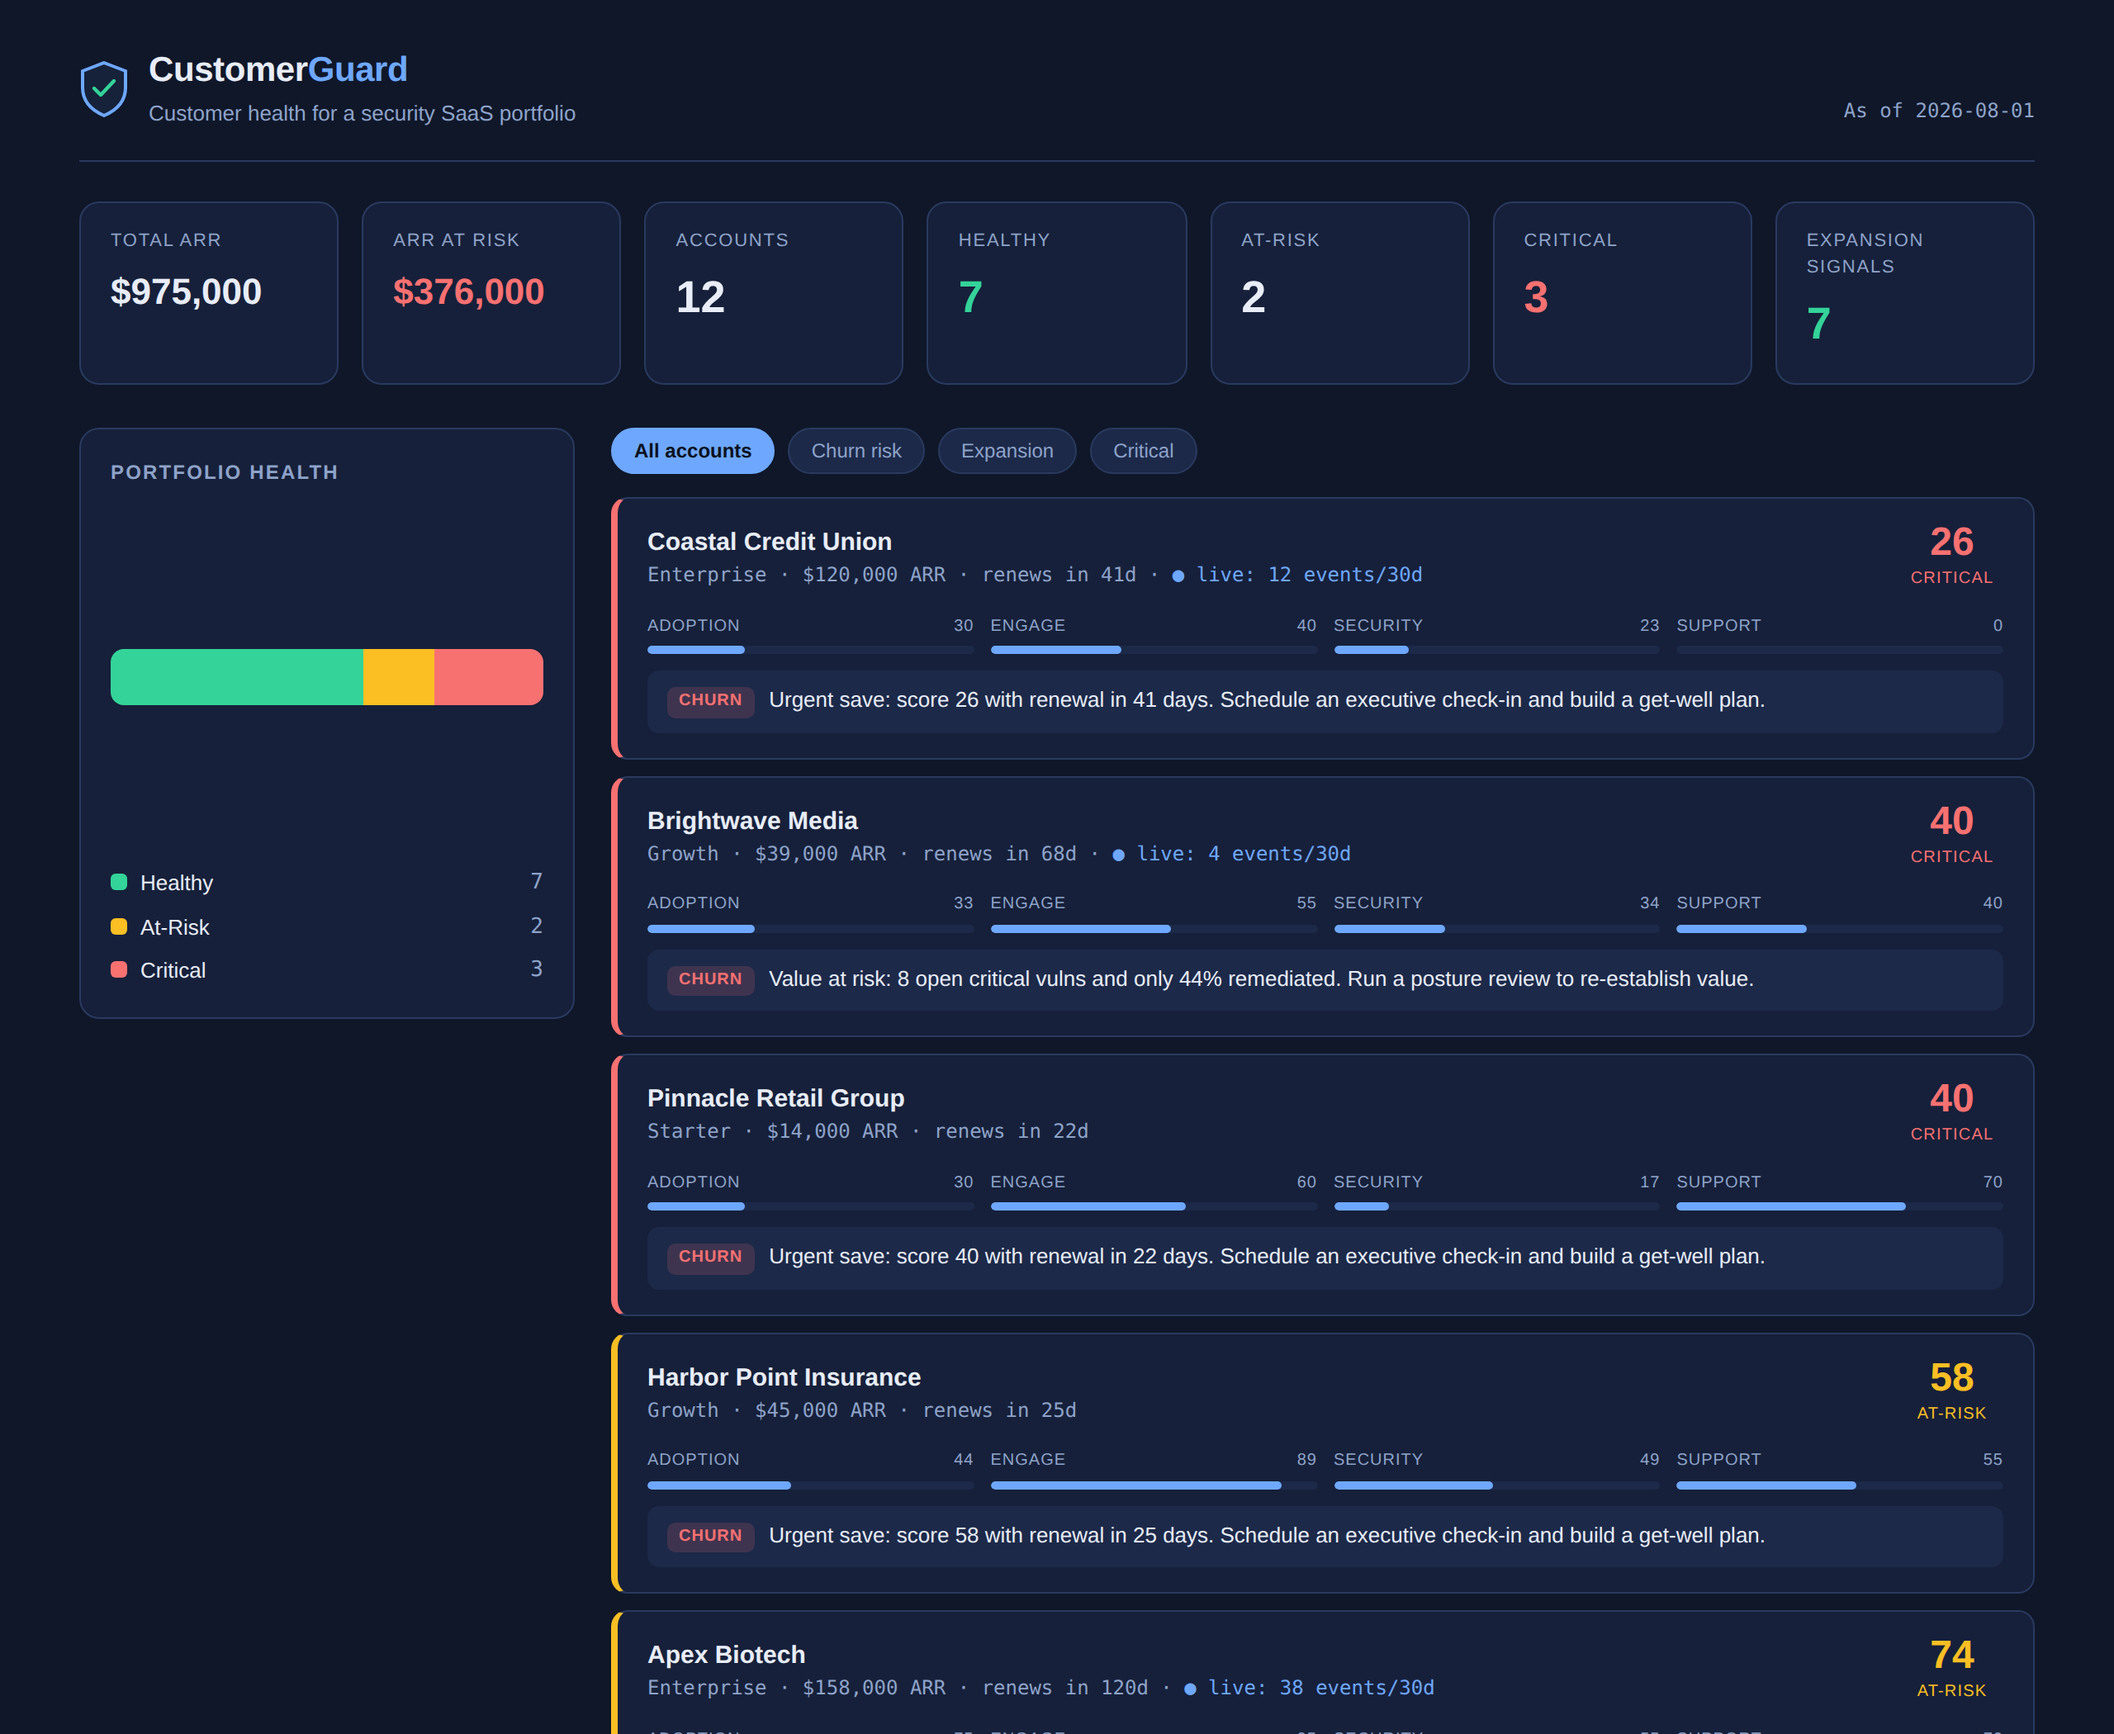
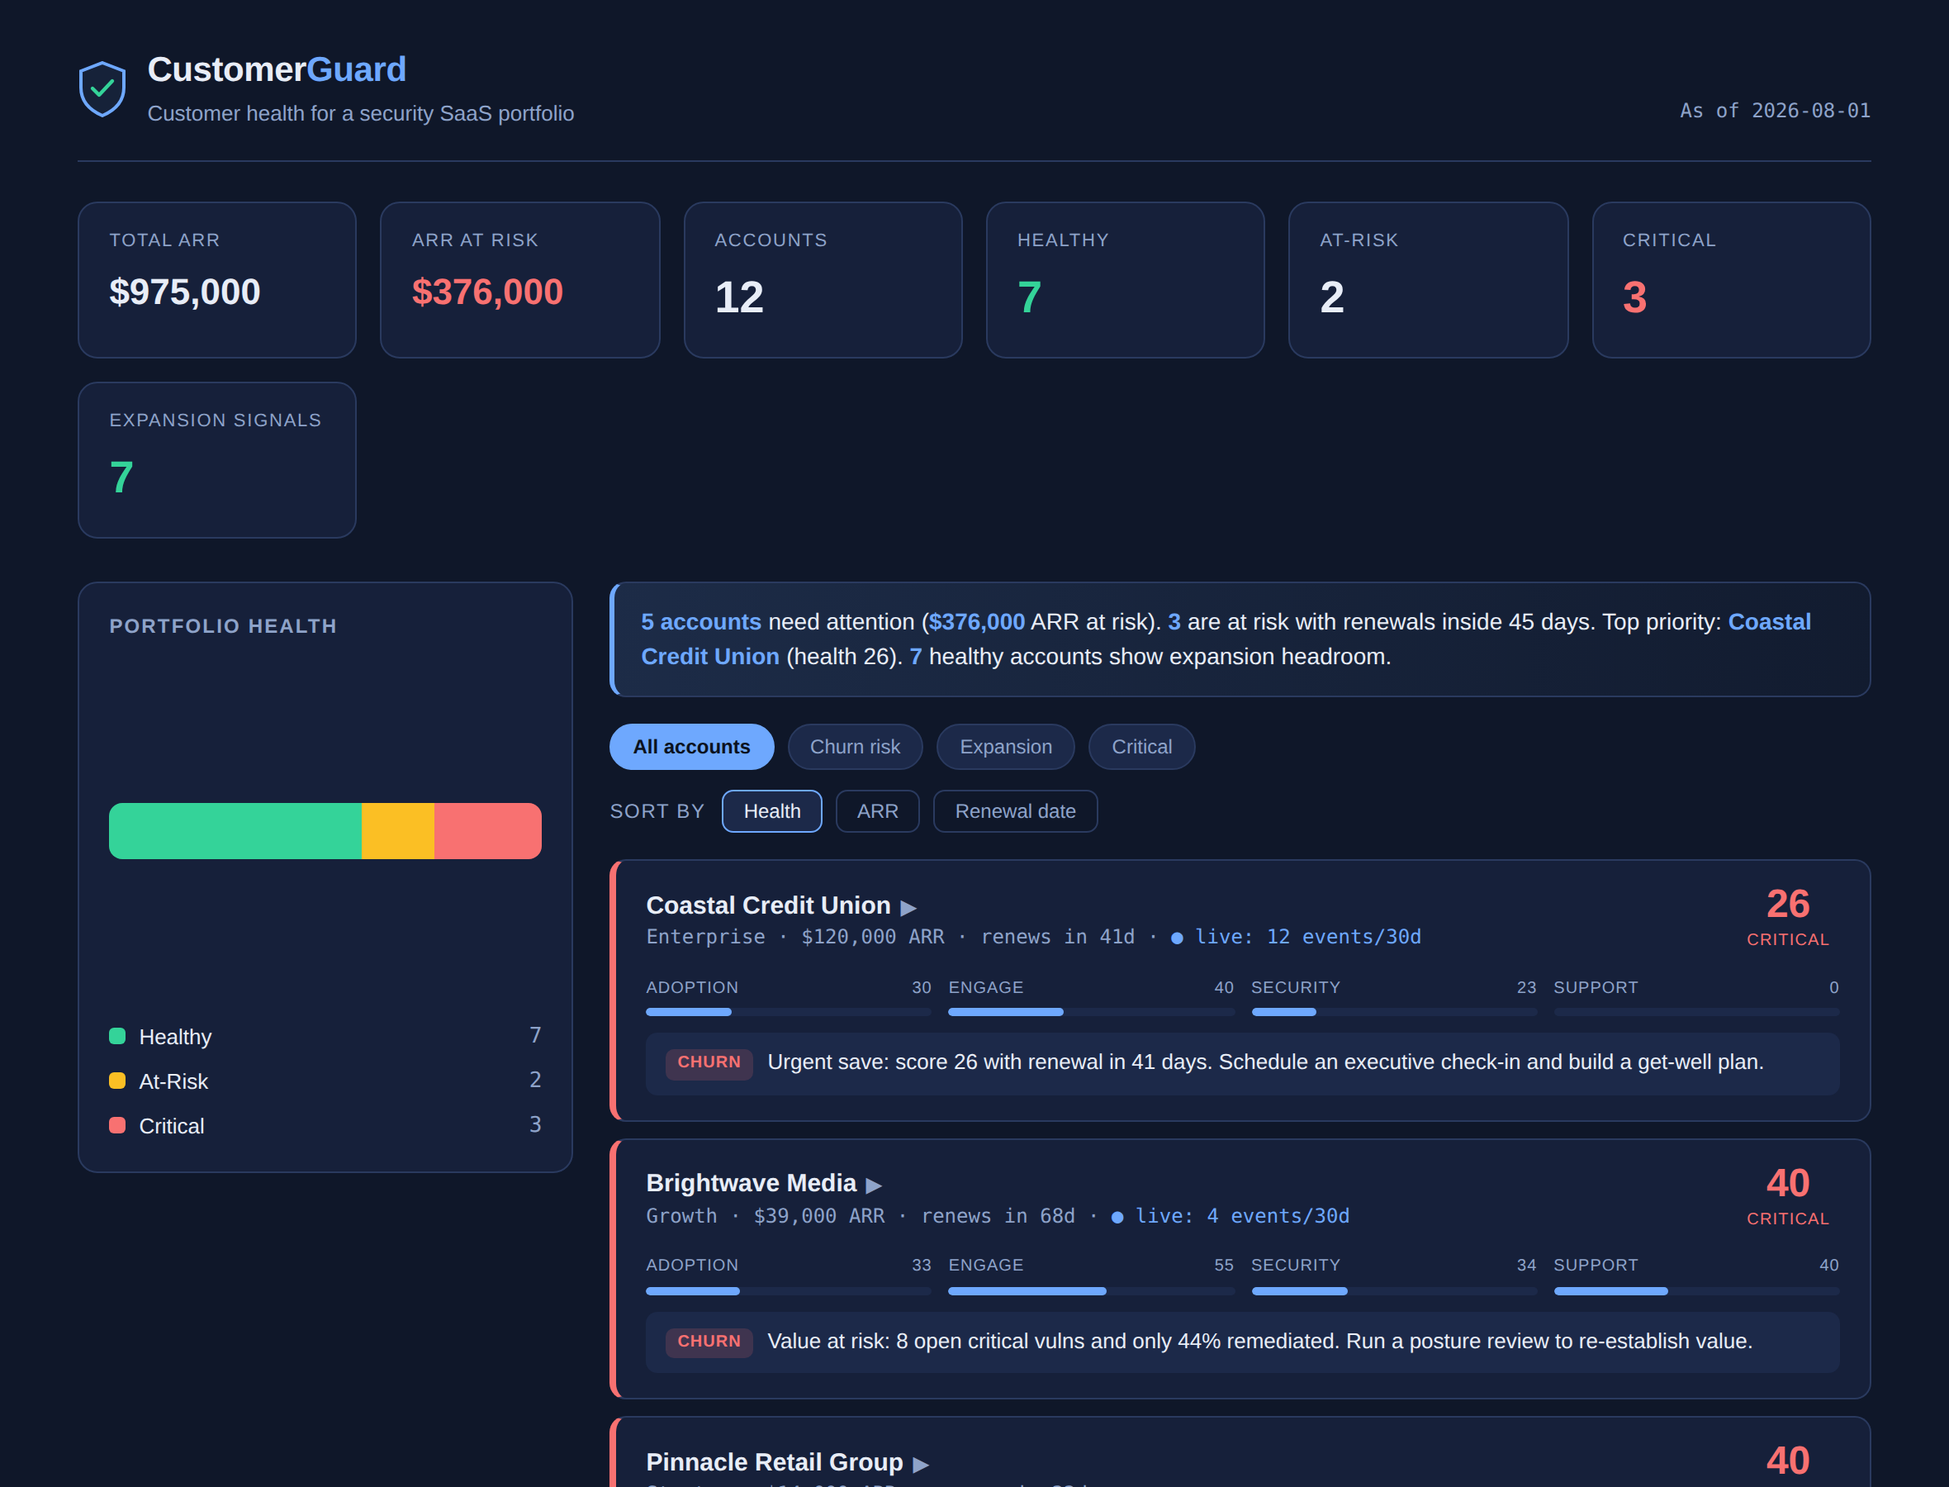
Add interactive detail panels, sorting, and insight strip

diff --git a/dashboard.html b/dashboard.html
@@ -55,7 +55,27 @@
   .legrow .dot { width: 10px; height: 10px; border-radius: 3px; display: inline-block; margin-right: 8px; }
   .legrow .n { font-family: var(--mono); color: var(--muted); }
 
-  .controls { display: flex; gap: 8px; margin-bottom: 14px; flex-wrap: wrap; }
+  .insight { background: linear-gradient(90deg, rgba(110,168,254,.14), rgba(110,168,254,.03)); border: 1px solid var(--line); border-left: 3px solid var(--accent); border-radius: 10px; padding: 13px 16px; margin-bottom: 16px; font-size: 14px; line-height: 1.5; }
+  .insight b { color: var(--accent); font-weight: 650; }
+  .controls { display: flex; gap: 8px; margin-bottom: 12px; flex-wrap: wrap; }
+  .sortbar { display: flex; align-items: center; gap: 8px; margin-bottom: 16px; flex-wrap: wrap; }
+  .sortlabel { font-size: 12px; color: var(--muted); text-transform: uppercase; letter-spacing: 0.07em; margin-right: 2px; }
+  .sortbtn { background: transparent; border: 1px solid var(--line); color: var(--muted); font-size: 12px; padding: 5px 12px; border-radius: 7px; cursor: pointer; font-family: inherit; transition: all .15s; }
+  .sortbtn:hover { color: var(--text); }
+  .sortbtn.active { background: var(--panel-2); border-color: var(--accent); color: var(--text); }
+  .acct { cursor: pointer; }
+  .detail { grid-column: 1 / -1; margin-top: 4px; border-top: 1px dashed var(--line); padding-top: 14px; display: none; }
+  .acct.open .detail { display: block; }
+  .acct .chev { transition: transform .2s; display: inline-block; color: var(--muted); font-size: 12px; margin-left: 6px; }
+  .acct.open .chev { transform: rotate(90deg); }
+  .detail-grid { display: grid; grid-template-columns: repeat(auto-fit, minmax(130px, 1fr)); gap: 10px 16px; }
+  .dstat { background: var(--panel-2); border-radius: 7px; padding: 9px 11px; }
+  .dstat .dl { font-size: 10px; text-transform: uppercase; letter-spacing: 0.05em; color: var(--muted); }
+  .dstat .dv { font-size: 16px; font-weight: 600; margin-top: 3px; font-variant-numeric: tabular-nums; }
+  .dstat .dv.warn { color: var(--critical); }
+  .dstat .dv.good { color: var(--healthy); }
+  .detail-note { margin-top: 12px; font-size: 12px; color: var(--muted); }
+  .detail-note code { font-family: var(--mono); color: var(--accent); }
   .filter { background: var(--panel-2); border: 1px solid var(--line); color: var(--muted); font-size: 12px; padding: 6px 13px; border-radius: 20px; cursor: pointer; font-family: inherit; transition: all .15s; }
   .filter:hover { color: var(--text); }
   .filter.active { background: var(--accent); border-color: var(--accent); color: #0b1220; font-weight: 600; }
@@ -114,11 +134,18 @@
   </div>
 
   <div>
+    <div class="insight" id="insight"></div>
     <div class="controls" id="filters">
       <button class="filter active" data-f="all">All accounts</button>
       <button class="filter" data-f="churn">Churn risk</button>
       <button class="filter" data-f="expansion">Expansion</button>
       <button class="filter" data-f="Critical">Critical</button>
+    </div>
+    <div class="sortbar">
+      <span class="sortlabel">Sort by</span>
+      <button class="sortbtn active" data-s="health">Health</button>
+      <button class="sortbtn" data-s="arr">ARR</button>
+      <button class="sortbtn" data-s="renewal">Renewal date</button>
     </div>
     <div class="accounts" id="accounts"></div>
   </div>
@@ -181,21 +208,71 @@ document.getElementById('legend').innerHTML = [
   ['Healthy', s.healthy, C.Healthy], ['At-Risk', s.at_risk, C['At-Risk']], ['Critical', s.critical, C.Critical]
 ].map(([l, n, c]) => `<div class="legrow"><span><span class="dot" style="background:${c}"></span>${l}</span><span class="n">${n}</span></div>`).join('');
 
-// Accounts
+// ---- Insight strip: an auto-generated takeaway, like a CSM's weekly summary ----
+(function insight() {
+  const at = DATA.accounts.filter(a => a.status !== 'Healthy');
+  const worst = DATA.accounts.reduce((m, a) => a.health_score < m.health_score ? a : m, DATA.accounts[0]);
+  const soon = DATA.accounts.filter(a => a.days_to_renewal <= 45 && a.status !== 'Healthy');
+  const exp = DATA.accounts.filter(a => a.flag === 'expansion');
+  document.getElementById('insight').innerHTML =
+    `<b>${at.length} accounts</b> need attention (<b>$${s.arr_at_risk.toLocaleString()}</b> ARR at risk). ` +
+    `${soon.length ? `<b>${soon.length}</b> are at risk with renewals inside 45 days. ` : ''}` +
+    `Top priority: <b>${worst.name}</b> (health ${worst.health_score}). ` +
+    `<b>${exp.length}</b> healthy accounts show expansion headroom.`;
+})();
+
+// ---- Accounts (filter + sort + expandable detail) ----
+let curFilter = 'all', curSort = 'health';
+
 function bar(label, val) {
   return `<div class="bar"><div class="blab"><span>${label}</span><span>${val}</span></div><div class="track"><div class="fill" style="width:${val}%"></div></div></div>`;
 }
-function render(filter) {
-  const list = DATA.accounts.filter(a => {
-    if (filter === 'all') return true;
-    if (filter === 'churn' || filter === 'expansion') return a.flag === filter;
-    return a.status === filter;
+function dstat(label, val, cls) {
+  return `<div class="dstat"><div class="dl">${label}</div><div class="dv ${cls||''}">${val}</div></div>`;
+}
+function detailPanel(a) {
+  const ss = a.sub_scores;
+  const seatPct = Math.round(a.seats_active / a.seats_licensed * 100);
+  const vulnCls = a.open_critical_vulns >= 8 ? 'warn' : (a.open_critical_vulns === 0 ? 'good' : '');
+  const remCls = a.pct_remediated >= 85 ? 'good' : (a.pct_remediated < 50 ? 'warn' : '');
+  return `<div class="detail">
+    <div class="detail-grid">
+      ${dstat('Seats active', `${a.seats_active} / ${a.seats_licensed}`, seatPct >= 90 ? 'good' : (seatPct < 50 ? 'warn' : ''))}
+      ${dstat('Logins (30d)', a.logins_last_30d)}
+      ${dstat('Scans (30d)', a.scans_last_30d)}
+      ${dstat('Open critical vulns', a.open_critical_vulns, vulnCls)}
+      ${dstat('Remediated', a.pct_remediated + '%', remCls)}
+      ${dstat('Support tickets (30d)', a.support_tickets_30d, a.support_tickets_30d >= 5 ? 'warn' : '')}
+      ${dstat('Renewal in', a.days_to_renewal + ' days', a.days_to_renewal <= 45 ? 'warn' : '')}
+      ${dstat('Plan tier', a.tier)}
+      ${a.live_activity ? dstat('Live signal (API)', a.live_activity.recent_commits_30d + ' events/30d') : ''}
+    </div>
+    <div class="detail-note">
+      Sub-scores &rarr; Adoption <code>${ss.adoption}</code> · Engagement <code>${ss.engagement}</code> · Security outcome <code>${ss.security}</code> · Support <code>${ss.support}</code>.
+      Health = 35% Adoption + 25% Engagement + 25% Security + 15% Support = <code>${a.health_score}</code>.
+      ${a.live_activity ? `Live signal pulled from <code>${a.live_activity.repo}</code> via ${a.live_activity.source}.` : ''}
+    </div>
+  </div>`;
+}
+function sortList(list) {
+  const s = [...list];
+  if (curSort === 'health') s.sort((a, b) => a.health_score - b.health_score);         // worst first
+  else if (curSort === 'arr') s.sort((a, b) => b.arr - a.arr);                          // biggest first
+  else if (curSort === 'renewal') s.sort((a, b) => a.days_to_renewal - b.days_to_renewal); // soonest first
+  return s;
+}
+function render() {
+  let list = DATA.accounts.filter(a => {
+    if (curFilter === 'all') return true;
+    if (curFilter === 'churn' || curFilter === 'expansion') return a.flag === curFilter;
+    return a.status === curFilter;
   });
+  list = sortList(list);
   document.getElementById('accounts').innerHTML = list.map(a => {
     const ss = a.sub_scores;
-    return `<div class="acct s-${a.status.replace(' ', '-')}">
+    return `<div class="acct s-${a.status.replace(' ', '-')}" data-name="${a.name}">
       <div>
-        <div class="name">${a.name}</div>
+        <div class="name">${a.name}<span class="chev">&#9654;</span></div>
         <div class="meta">${a.tier} · $${a.arr.toLocaleString()} ARR · renews in ${a.days_to_renewal}d${a.live_activity ? ` · <span class="live">● live: ${a.live_activity.recent_commits_30d} events/30d</span>` : ''}</div>
       </div>
       <div class="score-badge">
@@ -206,16 +283,31 @@ function render(filter) {
         ${bar('Adoption', ss.adoption)}${bar('Engage', ss.engagement)}${bar('Security', ss.security)}${bar('Support', ss.support)}
       </div>
       <div class="action"><span class="tag ${a.flag}">${a.flag}</span><span>${a.recommended_action}</span></div>
+      ${detailPanel(a)}
     </div>`;
   }).join('');
+
+  // expand/collapse on click
+  document.querySelectorAll('.acct').forEach(card => {
+    card.addEventListener('click', () => card.classList.toggle('open'));
+  });
 }
-render('all');
+render();
 
 document.querySelectorAll('.filter').forEach(btn => {
   btn.addEventListener('click', () => {
     document.querySelectorAll('.filter').forEach(b => b.classList.remove('active'));
     btn.classList.add('active');
-    render(btn.dataset.f);
+    curFilter = btn.dataset.f;
+    render();
+  });
+});
+document.querySelectorAll('.sortbtn').forEach(btn => {
+  btn.addEventListener('click', () => {
+    document.querySelectorAll('.sortbtn').forEach(b => b.classList.remove('active'));
+    btn.classList.add('active');
+    curSort = btn.dataset.s;
+    render();
   });
 });
 </script>
